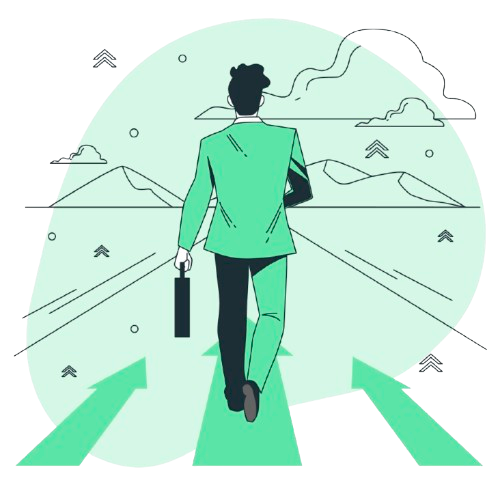
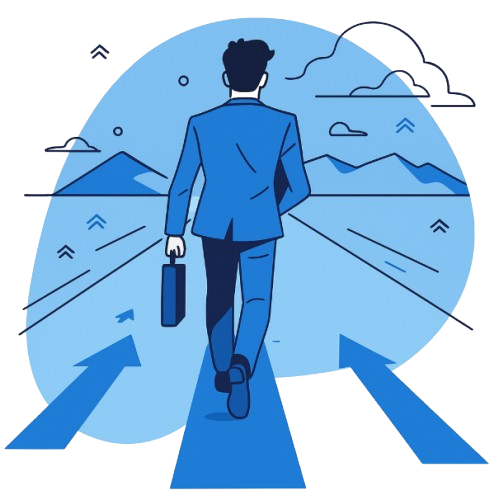
fix: theme color change

diff --git a/src/css/custom.css b/src/css/custom.css
@@ -6,25 +6,27 @@
 
 /* You can override the default Infima variables here. */
 :root {
-  --ifm-color-primary: #2e8555;
-  --ifm-color-primary-dark: #29784c;
-  --ifm-color-primary-darker: #277148;
-  --ifm-color-primary-darkest: #205d3b;
-  --ifm-color-primary-light: #33925d;
-  --ifm-color-primary-lighter: #359962;
-  --ifm-color-primary-lightest: #3cad6e;
+  --ifm-color-primary:        #2393d5;
+  --ifm-color-primary-dark:   #1f84bf; /* −10% de luminosidade */
+  --ifm-color-primary-darker: #1d7cb5; /* −15% de luminosidade */
+  --ifm-color-primary-darkest:#186695; /* −30% de luminosidade */
+  --ifm-color-primary-light:  #339edd; /* +10% de luminosidade */
+  --ifm-color-primary-lighter:#3da3df; /* +15% de luminosidade */
+  --ifm-color-primary-lightest:#5db2e4; /* +30% de luminosidade */
+
   --ifm-code-font-size: 95%;
   --docusaurus-highlighted-code-line-bg: rgba(0, 0, 0, 0.1);
 }
 
-/* For readability concerns, you should choose a lighter palette in dark mode. */
+/* Dark mode: aplica fator de clareamento de ~1.29 ao L do primário para melhor contraste */
 [data-theme='dark'] {
-  --ifm-color-primary: #25c2a0;
-  --ifm-color-primary-dark: #21af90;
-  --ifm-color-primary-darker: #1fa588;
-  --ifm-color-primary-darkest: #1a8870;
-  --ifm-color-primary-light: #29d5b0;
-  --ifm-color-primary-lighter: #32d8b4;
-  --ifm-color-primary-lightest: #4fddbf;
+  --ifm-color-primary:        #5bb1e4; /*  L × 1.29 */
+  --ifm-color-primary-dark:   #40a4df; /* (L × 1.29) × 0.9 */
+  --ifm-color-primary-darker: #329edd; /* (L × 1.29) × 0.85 */
+  --ifm-color-primary-darkest:#1f84c0; /* (L × 1.29) × 0.7 */
+  --ifm-color-primary-light:  #77bee8; /* (L × 1.29) × 1.1 */
+  --ifm-color-primary-lighter:#85c5ea; /* (L × 1.29) × 1.15 */
+  --ifm-color-primary-lightest:#aed8f1; /* (L × 1.29) × 1.3 */
+
   --docusaurus-highlighted-code-line-bg: rgba(0, 0, 0, 0.3);
 }
